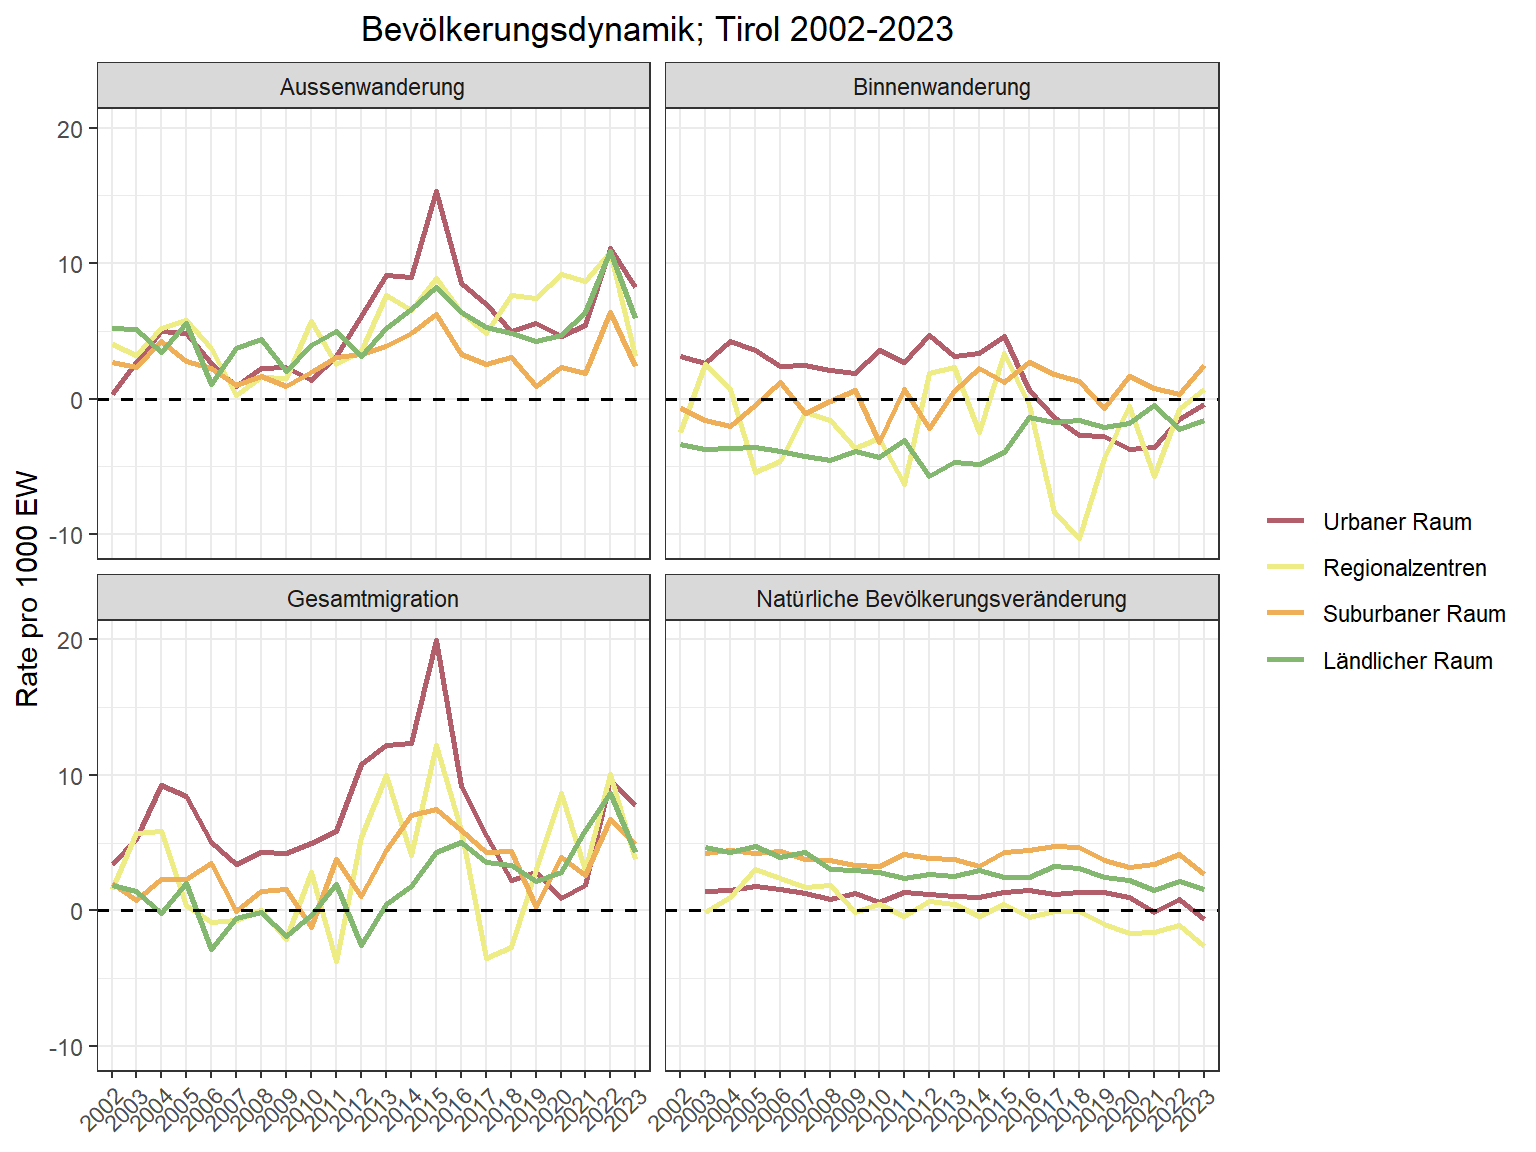
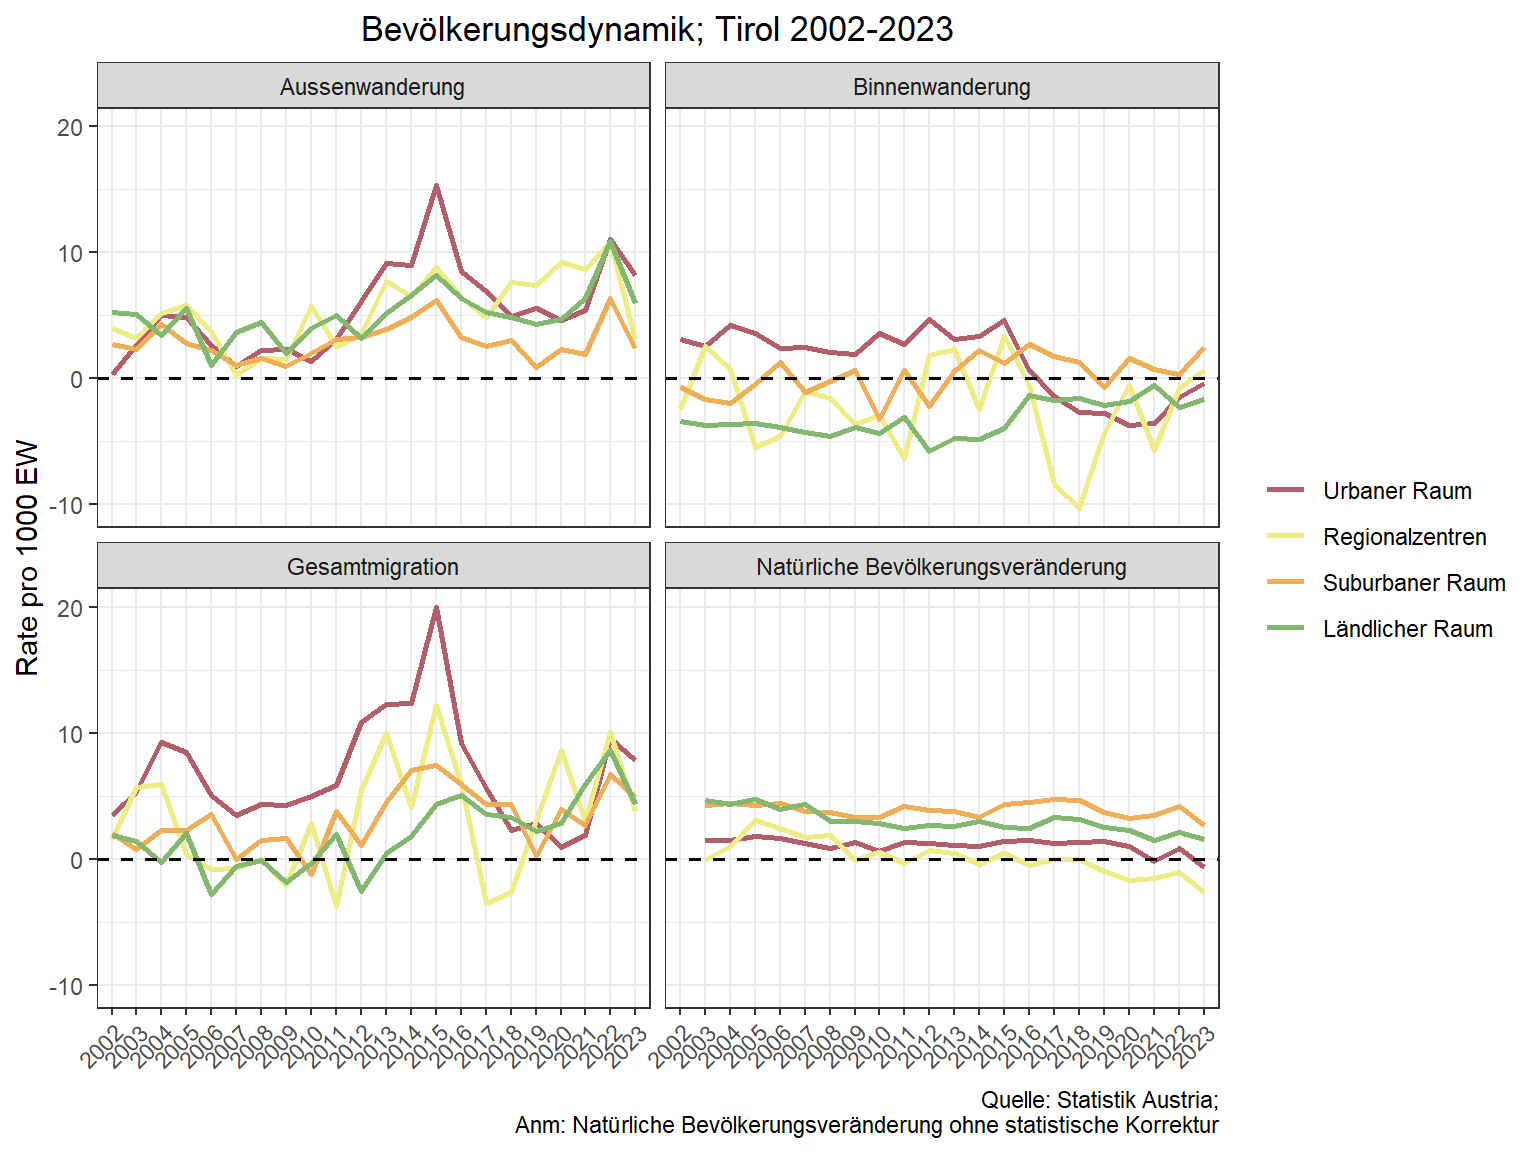
update

diff --git a/docs/05_regional_profile.html b/docs/05_regional_profile.html
@@ -310,7 +310,8 @@ pre > code.sourceCode > span > a:first-child::before { text-decoration: underlin
 <span id="cb7-15"><a href="#cb7-15" aria-hidden="true" tabindex="-1"></a>  <span class="fu">labs</span>(<span class="at">y =</span> <span class="st">"Bevölkerungsindex (2002=100)"</span>,</span>
 <span id="cb7-16"><a href="#cb7-16" aria-hidden="true" tabindex="-1"></a>       <span class="at">x =</span> <span class="cn">NULL</span>,</span>
 <span id="cb7-17"><a href="#cb7-17" aria-hidden="true" tabindex="-1"></a>       <span class="at">color =</span> <span class="cn">NULL</span>,</span>
-<span id="cb7-18"><a href="#cb7-18" aria-hidden="true" tabindex="-1"></a>       <span class="at">title =</span> <span class="st">"Bevölkerungsentwicklung nach Gemeindetyp; </span><span class="sc">\n</span><span class="st"> Tirol 2002-2023 (2002 = 100%)"</span>) </span></code></pre></div><button title="Copy to Clipboard" class="code-copy-button"><i class="bi"></i></button></div>
+<span id="cb7-18"><a href="#cb7-18" aria-hidden="true" tabindex="-1"></a>       <span class="at">title =</span> <span class="st">"Bevölkerungsentwicklung nach Gemeindetyp; </span><span class="sc">\n</span><span class="st"> Tirol 2002-2023 (2002 = 100%)"</span>,</span>
+<span id="cb7-19"><a href="#cb7-19" aria-hidden="true" tabindex="-1"></a>       <span class="at">caption =</span> <span class="st">"Quelle: Statistik Austria"</span>) </span></code></pre></div><button title="Copy to Clipboard" class="code-copy-button"><i class="bi"></i></button></div>
 <div class="cell-output-display">
 <div>
 <figure class="figure">
@@ -361,7 +362,8 @@ pre > code.sourceCode > span > a:first-child::before { text-decoration: underlin
 <span id="cb10-15"><a href="#cb10-15" aria-hidden="true" tabindex="-1"></a>    <span class="fu">labs</span>(<span class="at">y =</span> <span class="st">"Rate pro 1000 EW"</span>,</span>
 <span id="cb10-16"><a href="#cb10-16" aria-hidden="true" tabindex="-1"></a>       <span class="at">x =</span> <span class="cn">NULL</span>,</span>
 <span id="cb10-17"><a href="#cb10-17" aria-hidden="true" tabindex="-1"></a>       <span class="at">color =</span> <span class="cn">NULL</span>,</span>
-<span id="cb10-18"><a href="#cb10-18" aria-hidden="true" tabindex="-1"></a>       <span class="at">title =</span> <span class="st">"Bevölkerungsdynamik; Tirol 2002-2023"</span>) </span></code></pre></div><button title="Copy to Clipboard" class="code-copy-button"><i class="bi"></i></button></div>
+<span id="cb10-18"><a href="#cb10-18" aria-hidden="true" tabindex="-1"></a>       <span class="at">title =</span> <span class="st">"Bevölkerungsdynamik; Tirol 2002-2023"</span>,</span>
+<span id="cb10-19"><a href="#cb10-19" aria-hidden="true" tabindex="-1"></a>       <span class="at">caption =</span> <span class="st">"Quelle: Statistik Austria;</span><span class="sc">\n</span><span class="st"> Anm: Natürliche Bevölkerungsveränderung ohne statistische Korrektur"</span>) </span></code></pre></div><button title="Copy to Clipboard" class="code-copy-button"><i class="bi"></i></button></div>
 <div class="cell-output-display">
 <div>
 <figure class="figure">
@@ -403,13 +405,14 @@ pre > code.sourceCode > span > a:first-child::before { text-decoration: underlin
 <span id="cb12-24"><a href="#cb12-24" aria-hidden="true" tabindex="-1"></a>  <span class="fu">labs</span>(<span class="at">x=</span><span class="st">"Bevölkerung"</span>,</span>
 <span id="cb12-25"><a href="#cb12-25" aria-hidden="true" tabindex="-1"></a>       <span class="at">y=</span><span class="st">"Altersgruppe"</span>,</span>
 <span id="cb12-26"><a href="#cb12-26" aria-hidden="true" tabindex="-1"></a>       <span class="at">fill=</span><span class="st">""</span>,</span>
-<span id="cb12-27"><a href="#cb12-27" aria-hidden="true" tabindex="-1"></a>       <span class="at">title =</span> <span class="st">"Bevölkerungspyramide Tirol nach Raumtyp 2002/2025"</span>)<span class="sc">+</span></span>
-<span id="cb12-28"><a href="#cb12-28" aria-hidden="true" tabindex="-1"></a>  <span class="fu">facet_grid</span>(.<span class="sc">~</span>jahr)<span class="sc">+</span></span>
-<span id="cb12-29"><a href="#cb12-29" aria-hidden="true" tabindex="-1"></a>  <span class="fu">theme_bw</span>()<span class="sc">+</span></span>
-<span id="cb12-30"><a href="#cb12-30" aria-hidden="true" tabindex="-1"></a>  <span class="fu">theme</span>(<span class="at">legend.position =</span> <span class="st">"bottom"</span>)<span class="sc">+</span></span>
-<span id="cb12-31"><a href="#cb12-31" aria-hidden="true" tabindex="-1"></a>  <span class="fu">theme</span>(<span class="at">plot.title =</span> <span class="fu">element_text</span>(<span class="at">hjust =</span> <span class="fl">0.5</span>))<span class="sc">+</span></span>
-<span id="cb12-32"><a href="#cb12-32" aria-hidden="true" tabindex="-1"></a>  <span class="fu">annotate</span>(<span class="at">geom=</span><span class="st">"text"</span>, <span class="at">x=</span><span class="sc">-</span><span class="dv">15300</span>, <span class="at">y=</span><span class="dv">20</span>, <span class="at">label=</span><span class="st">"Männer"</span>, <span class="at">size=</span><span class="dv">5</span>) <span class="sc">+</span></span>
-<span id="cb12-33"><a href="#cb12-33" aria-hidden="true" tabindex="-1"></a>  <span class="fu">annotate</span>(<span class="at">geom=</span><span class="st">"text"</span>, <span class="at">x=</span><span class="dv">15300</span>, <span class="at">y=</span><span class="dv">20</span>, <span class="at">label=</span><span class="st">"Frauen"</span>, <span class="at">size=</span><span class="dv">5</span>) </span></code></pre></div><button title="Copy to Clipboard" class="code-copy-button"><i class="bi"></i></button></div>
+<span id="cb12-27"><a href="#cb12-27" aria-hidden="true" tabindex="-1"></a>       <span class="at">title =</span> <span class="st">"Bevölkerungspyramide Tirol nach Raumtyp 2002/2025"</span>,</span>
+<span id="cb12-28"><a href="#cb12-28" aria-hidden="true" tabindex="-1"></a>       <span class="at">caption =</span> <span class="st">"Quelle: Statistik Austria"</span>)<span class="sc">+</span></span>
+<span id="cb12-29"><a href="#cb12-29" aria-hidden="true" tabindex="-1"></a>  <span class="fu">facet_grid</span>(.<span class="sc">~</span>jahr)<span class="sc">+</span></span>
+<span id="cb12-30"><a href="#cb12-30" aria-hidden="true" tabindex="-1"></a>  <span class="fu">theme_bw</span>()<span class="sc">+</span></span>
+<span id="cb12-31"><a href="#cb12-31" aria-hidden="true" tabindex="-1"></a>  <span class="fu">theme</span>(<span class="at">legend.position =</span> <span class="st">"bottom"</span>)<span class="sc">+</span></span>
+<span id="cb12-32"><a href="#cb12-32" aria-hidden="true" tabindex="-1"></a>  <span class="fu">theme</span>(<span class="at">plot.title =</span> <span class="fu">element_text</span>(<span class="at">hjust =</span> <span class="fl">0.5</span>))<span class="sc">+</span></span>
+<span id="cb12-33"><a href="#cb12-33" aria-hidden="true" tabindex="-1"></a>  <span class="fu">annotate</span>(<span class="at">geom=</span><span class="st">"text"</span>, <span class="at">x=</span><span class="sc">-</span><span class="dv">15300</span>, <span class="at">y=</span><span class="dv">20</span>, <span class="at">label=</span><span class="st">"Männer"</span>, <span class="at">size=</span><span class="dv">5</span>) <span class="sc">+</span></span>
+<span id="cb12-34"><a href="#cb12-34" aria-hidden="true" tabindex="-1"></a>  <span class="fu">annotate</span>(<span class="at">geom=</span><span class="st">"text"</span>, <span class="at">x=</span><span class="dv">15300</span>, <span class="at">y=</span><span class="dv">20</span>, <span class="at">label=</span><span class="st">"Frauen"</span>, <span class="at">size=</span><span class="dv">5</span>) </span></code></pre></div><button title="Copy to Clipboard" class="code-copy-button"><i class="bi"></i></button></div>
 <div class="cell-output-display">
 <div>
 <figure class="figure">
